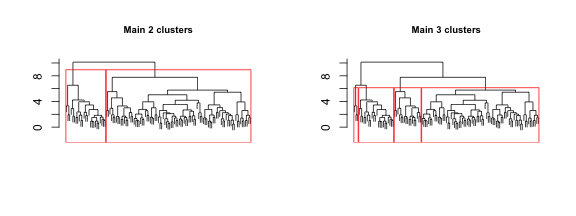
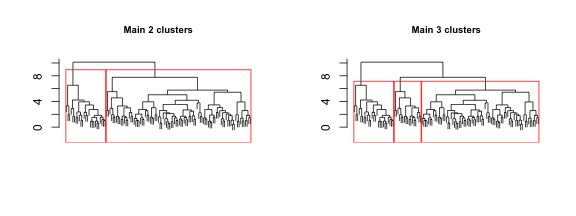
Removed margins from phylo plots. Fixed bug in cluster rectangles.

Changed region(s): [[0.5938, 0.3611, 0.9375, 0.6667]]

diff --git a/_posts/2014-10-05-clustering-universities-with-guardian-2015-part-2.md b/_posts/2014-10-05-clustering-universities-with-guardian-2015-part-2.md
@@ -163,7 +163,7 @@ title('Main 2 clusters', cex.main = 0.8)
 plot(hcluster,
      labels = FALSE,  # remove labels
      ann = FALSE)  # remove annotations
-rect.hclust(hcluster, k = 4) 
+rect.hclust(hcluster, k = 3) 
 title('Main 3 clusters', cex.main = 0.8) 
 {% endhighlight %}
 
@@ -241,7 +241,7 @@ plot(as.phylo(hcluster), type = 'phylo', cex = 0.5,
      tip.color = cols,  
      font = 1, rotate.tree = 10, no.margin = TRUE)
 legend('topleft', legend = group_colours$group, col = group_colours$colour, 
-       fill = group_colours$colour, bty = 'n', border = 0, cex = 0.5)
+       fill = group_colours$colour, bty = 'n', border = 0, cex = 0.6)
 {% endhighlight %}
 
 ![center](/../figs/2014-10-05-clustering-universities-with-guardian-2015-part-2/coloured_by_group.png) 
@@ -254,10 +254,9 @@ It can be difficult to differentiate between each cluster using the dendrogram a
 {% highlight r %}
 plot(as.phylo(hcluster), type = 'un', cex = 0.4, 
      tip.color = cols, lab4ut = 'axial', 
-     font = 1, rotate.tree = 10, mar = c(0, 0, 1, 0))
+     font = 1, rotate.tree = 10, no.margin = TRUE)
 legend('topleft', legend = group_colours$group, fill = group_colours$colour, 
-       bty = 'n', border = 0, cex = 0.5)
-title('Coloured by Mission Group', cex.main = 0.6)
+       title = 'Coloured by Mission Group', bty = 'n', border = 0, cex = 0.6)
 {% endhighlight %}
 
 ![center](/../figs/2014-10-05-clustering-universities-with-guardian-2015-part-2/coloured_by_group2.png) 
@@ -268,9 +267,9 @@ One group that looks interesting is the other "Russell/1994" cluster at the top-
 {% highlight r %}
 plot(as.phylo(hcluster), type = 'un', cex = 0.4, 
      tip.color = cutree(hcluster, k = 7), lab4ut = 'axial', 
-     font = 1, rotate.tree = 10, mar = c(0, 0, 1, 0))
-legend('topleft', legend = 1:7, fill = 1:7, bty = 'n', border = 0, cex = 0.5)
-title('Coloured by Cluster Group', cex.main = 0.6)
+     font = 1, rotate.tree = 10, no.margin = TRUE)
+legend('topleft', legend = 1:7, fill = 1:7, bty = 'n', border = 0, cex = 0.6,
+       title = 'Coloured by Cluster Group')
 {% endhighlight %}
 
 ![center](/../figs/2014-10-05-clustering-universities-with-guardian-2015-part-2/coloured_by_cluster.png) 
